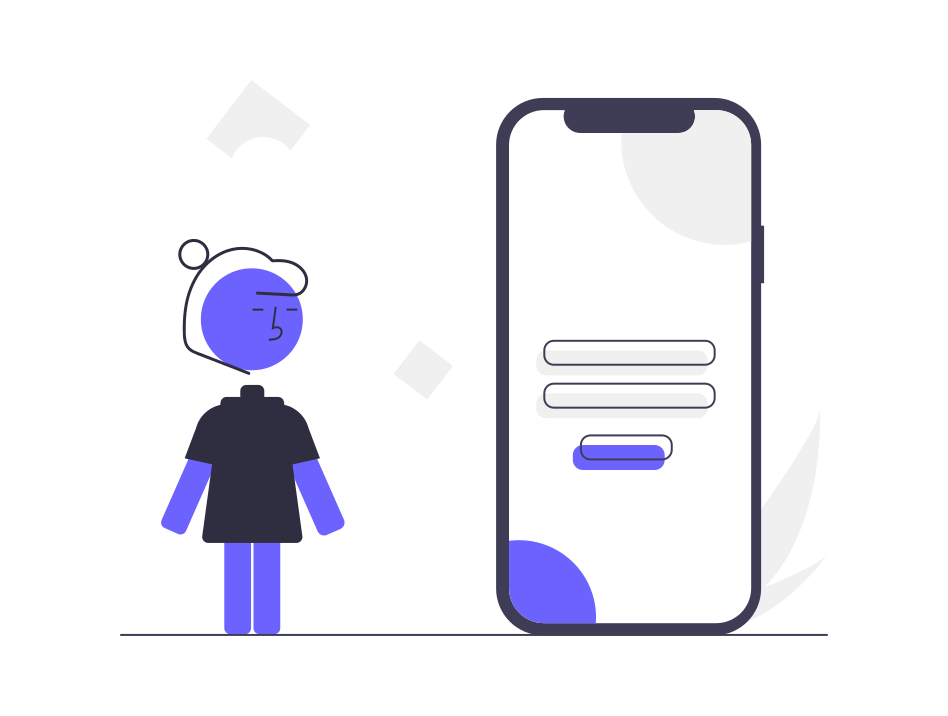
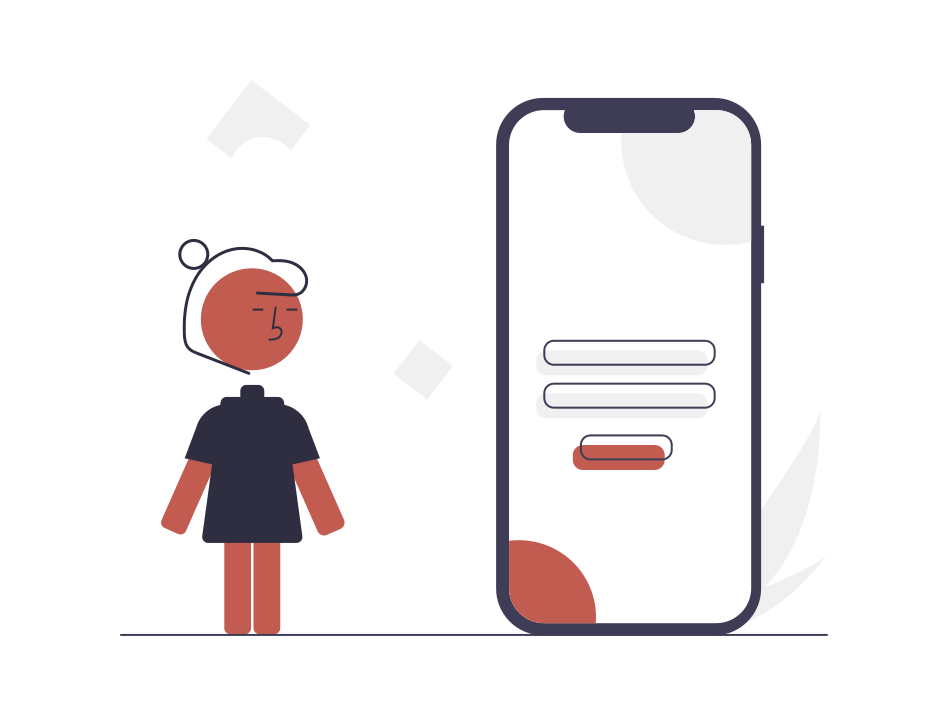
login page almost done

diff --git a/lib/pages/login_page.dart b/lib/pages/login_page.dart
@@ -1,69 +1,164 @@
 import 'package:flutter/material.dart';
+import 'package:flutter_catalog/utils/routes.dart';
 
-class LoginPage extends StatelessWidget {
+class LoginPage extends StatefulWidget {
   const LoginPage({super.key});
+
+  @override
+  State<LoginPage> createState() => _LoginPageState();
+}
+
+class _LoginPageState extends State<LoginPage> {
+
+  String name = "";
+  bool changeButton = false;
 
   @override
   Widget build(BuildContext context) {
     return Material(
       color: Colors.white,
-      child: Column(
-        children: [
-          Image.asset("assets/images/login_image.png"),
-          const SizedBox(
-            height: 25,
-          ),
-          const Text(
-            'Welcome!',
-            style: TextStyle(
-              color: Color.fromARGB(255, 64, 85, 175),
-              fontWeight: FontWeight.w900,
-              fontSize: 30,
-            ),
-          ),
-          const SizedBox(
-            height: 25,
-          ),
-          Padding(
-            padding: const EdgeInsets.symmetric(vertical: 16.0, horizontal: 45.0),
-            child: Column(
-              children: [
-                TextFormField(
-                  decoration: const InputDecoration(
-                    labelText: "Username",
-                    hintText: "Enter username",
-                    border: OutlineInputBorder(),
-                    filled: true,
-                    fillColor: Colors.white,
-                    contentPadding: EdgeInsets.symmetric(vertical: 15.0, horizontal: 10.0),
+      child: Center(
+        child: SingleChildScrollView(
+          child: Column(
+            children: [
+              Padding(
+                padding: const EdgeInsets.only(bottom: 40),
+                  child: Image.asset(
+                    "assets/images/login_image.png",
+                    width: MediaQuery.of(context).size.width * 0.8,
+                    fit: BoxFit.contain,
                   ),
+              ),
+              Text(
+                'Welcome $name',
+                textAlign: TextAlign.center,
+                style: const TextStyle(
+                  color: Color(0xFF161514),
+                  fontWeight: FontWeight.w900,
+                  fontSize: 30,
                 ),
-                const SizedBox(
-                  height: 20,
+              ),
+              const SizedBox(
+                height: 47,
+              ),
+              Padding(
+                padding: const EdgeInsets.symmetric(vertical: 16.0, horizontal: 45.0),
+                child: Column(
+                  children: [
+                    TextFormField(
+                      decoration: InputDecoration(
+                        labelText: "Username",
+                        hintText: "Enter username",
+                        prefixIcon: const Icon(Icons.person, color: Color(0xFF161514)),
+                        labelStyle: const TextStyle(color: Color(0xFF161514)),
+                        border: OutlineInputBorder(
+                          borderRadius: BorderRadius.circular(15.0),
+                        ),
+                        enabledBorder: OutlineInputBorder(
+                          borderRadius: BorderRadius.circular(15.0),
+                          borderSide: const BorderSide(color: Color(0xFF161514)),
+                        ),
+                        focusedBorder:  OutlineInputBorder(
+                          borderRadius: BorderRadius.circular(15.0),
+                          borderSide: const BorderSide(color: Color(0xFF161514)),
+                        ),
+                        filled: true,
+                        fillColor: const Color.fromARGB(255, 247, 246, 246),
+                        contentPadding: const EdgeInsets.symmetric(vertical: 15.0, horizontal: 10.0),
+                        
+                      ),
+                      onChanged: (value) {
+                        name = value;
+                        setState(() {
+                          
+                        });
+                      },
+                    ),
+                    const SizedBox(
+                      height: 25,
+                    ),
+                    TextFormField(
+                      obscureText: true,
+                      decoration: InputDecoration(
+                        labelText: "Password",
+                        hintText: "Enter password",
+                        labelStyle: const TextStyle(color: Color(0xFF161514)),
+                        prefixIcon: const Icon(Icons.lock, color: Color(0xFF161514)),
+                        border: OutlineInputBorder(
+                          borderRadius: BorderRadius.circular(15.0),
+                        ),
+                        enabledBorder: OutlineInputBorder(
+                          borderRadius: BorderRadius.circular(15.0),
+                          borderSide: const BorderSide(color: Color(0xFF161514)),
+                        ),
+                        focusedBorder:  OutlineInputBorder(
+                          borderRadius: BorderRadius.circular(15.0),
+                          borderSide: const BorderSide(color: Color(0xFF161514)),
+                        ),
+                        filled: true,
+                        fillColor: const Color.fromARGB(255, 247, 246, 246),
+                        contentPadding: const EdgeInsets.symmetric(vertical: 15.0, horizontal: 10.0),
+                      ),
+                    ),
+                    const SizedBox(
+                      height: 45,
+                    ),
+                    InkWell(
+                      onTap: () async {
+                        setState(() {
+                          changeButton = true;
+                        });
+                        await Future.delayed( const Duration(seconds: 1));
+                        Navigator.pushNamed(context, MyRoutes.homeRoute);
+                      },
+                      child: AnimatedContainer(
+                        duration: const Duration(seconds: 1),
+                        width: changeButton ? 50 : 150,
+                        height:  changeButton ? 49 : 45,
+                        alignment: Alignment.center,
+                        decoration: BoxDecoration(
+                          color: const Color(0xFFC25C50),
+                          borderRadius: BorderRadius.circular(changeButton ? 50 : 15),
+                        ),
+                        child: changeButton ? const Icon(Icons.done, color: Colors.white,) : const Text(
+                          'Log In',
+                          style: TextStyle(
+                            fontSize: 18,
+                            fontWeight: FontWeight.bold,
+                            color: Colors.white,
+                          ),
+                        ),
+                      ),
+                    ),
+                    // ElevatedButton(
+                    //   style: TextButton.styleFrom(
+                    //     foregroundColor: Colors.white,
+                    //     backgroundColor: const Color(0xFFC25C50),
+                    //     padding: const EdgeInsets.symmetric(horizontal: 40, vertical: 10),
+                    //     shape: RoundedRectangleBorder(
+                    //       borderRadius: BorderRadius.circular(15.0),
+                    //     ),
+                    //   ),
+                    //   onPressed: () {
+                    //     Navigator.pushNamed(context, MyRoutes.homeRoute);
+                    //   },
+                    //   child: const Text(
+                    //     'Log In',
+                    //     style: TextStyle(
+                    //       fontSize: 17,
+                    //       fontWeight: FontWeight.bold,
+                    //     ),
+                    //   ),
+                    // ),
+                    const SizedBox(
+                      height: 200,
+                    ),
+                  ],
                 ),
-                TextFormField(
-                  obscureText: true,
-                  decoration: const InputDecoration(
-                    labelText: "Password",
-                    hintText: "Enter password",
-                    border: OutlineInputBorder(),
-                    filled: true,
-                    fillColor: Colors.white,
-                    contentPadding: EdgeInsets.symmetric(vertical: 15.0, horizontal: 10.0),
-                  ),
-                ),
-                const SizedBox(
-                  height: 25,
-                ),
-                ElevatedButton(
-                  style: TextButton.styleFrom(),
-                  onPressed: () {},
-                  child: const Text('Login'),
-                ),
-              ],
-            ),
+              ),
+            ],
           ),
-        ],
+        ),
       )
     );
   }

diff --git a/lib/main.dart b/lib/main.dart
@@ -1,6 +1,7 @@
 import 'package:flutter/material.dart';
 import 'package:flutter_catalog/pages/home_page.dart';
 import 'package:flutter_catalog/pages/login_page.dart';
+import 'package:flutter_catalog/utils/routes.dart';
 import 'package:google_fonts/google_fonts.dart';
 
 void main() {
@@ -25,8 +26,8 @@ class MyApp extends StatelessWidget {
       initialRoute: "/",
       routes : {
         "/" : (context) => const LoginPage(),
-        "/home" : (context) => const HomePage(),
-        "/login" : (context) => const LoginPage(),
+        MyRoutes.homeRoute : (context) => const HomePage(),
+        MyRoutes.loginRoute : (context) => const LoginPage(),
       },
     );
   }

diff --git a/lib/utils/routes.dart b/lib/utils/routes.dart
@@ -1,0 +1,4 @@
+class MyRoutes {
+  static String homeRoute = "/home";
+  static String loginRoute = "/login";
+}
